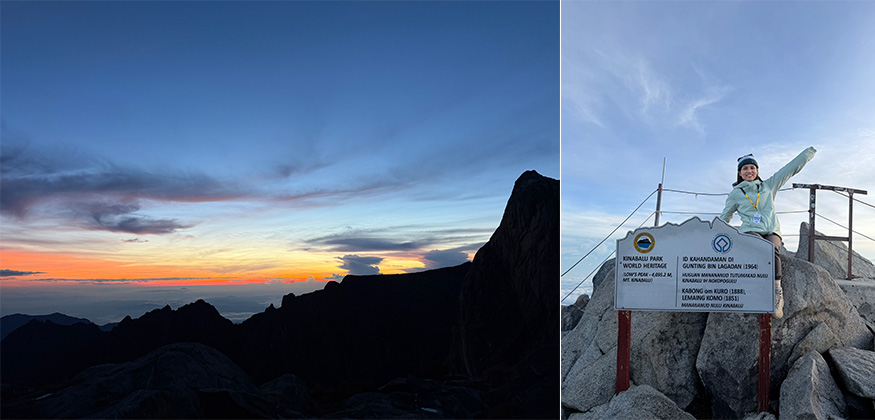
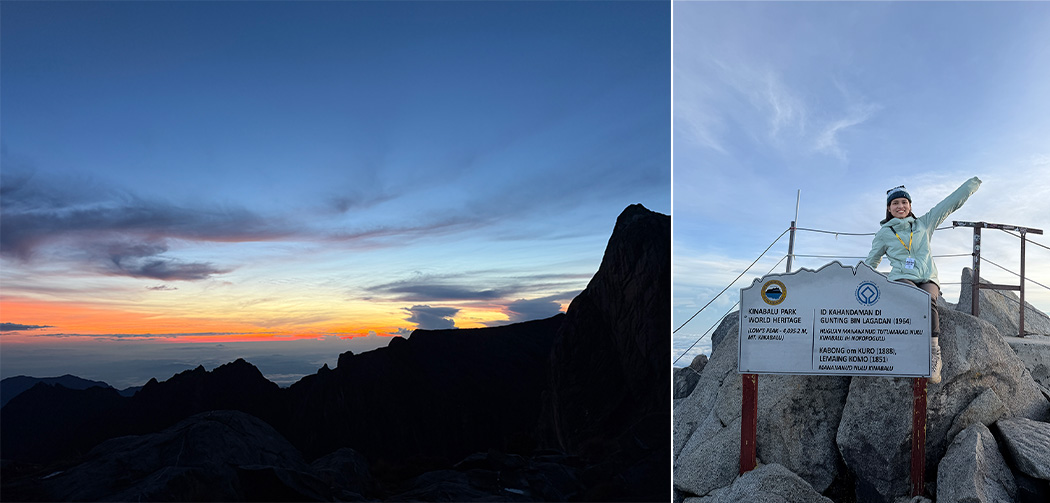
111

diff --git a/index.html b/index.html
@@ -131,17 +131,17 @@
         <div class="img-item">
           <a href="compal2-1-3.html"><img src="images/index/a1/1-1.jpg"></a>
           <p class="img-caption"><a href="compal2-1-3.html">【幕後觀察室】辦公室裡，開始行<br>光合作用的小森林</a></p>
-          <p class="img-desc">寶編<br>組織溝通與文化處</p>
+          <p class="img-desc">組織溝通與文化處</p>
         </div>
         <div class="img-item">
           <a href="compal2-1-4.html"><img src="images/index/a1/1-2.jpg"></a>
           <p class="img-caption"><a href="compal2-1-4.html">【幕後觀察室】一場慶生會的甜甜圈謎題</a></p>
-          <p class="img-desc">寶編<br>組織溝通與文化處</p>
+          <p class="img-desc">組織溝通與文化處</p>
         </div>
         <div class="img-item">
           <a href="compal2-1-5.html"><img src="images/index/a1/1-3.jpg"></a>
           <p class="img-caption"><a href="compal2-1-5.html">【ㄎ一ㄤ寶濃湯】職場說話力：<br>讓你的聲音被聽見﹙ft.周震宇﹚</a></p>
-          <p class="img-desc">寶編<br>組織溝通與文化處</p>
+          <p class="img-desc">組織溝通與文化處</p>
         </div>
       </div>
     </div>
